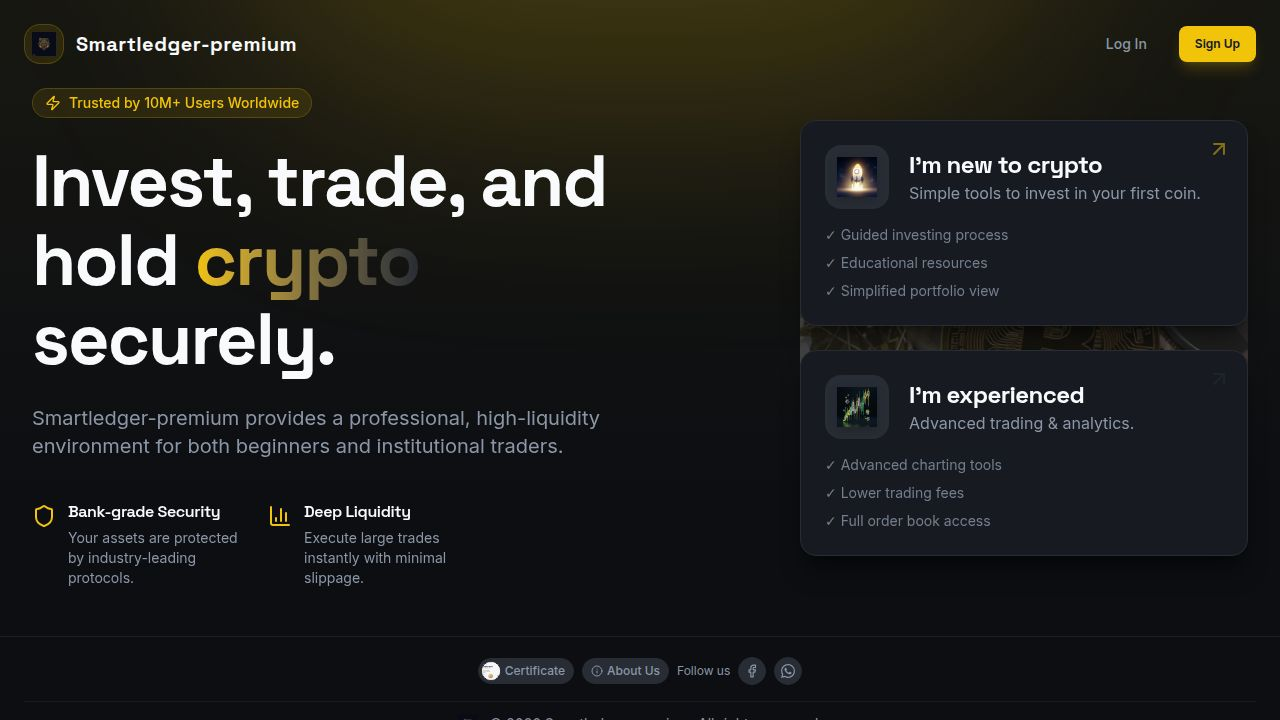
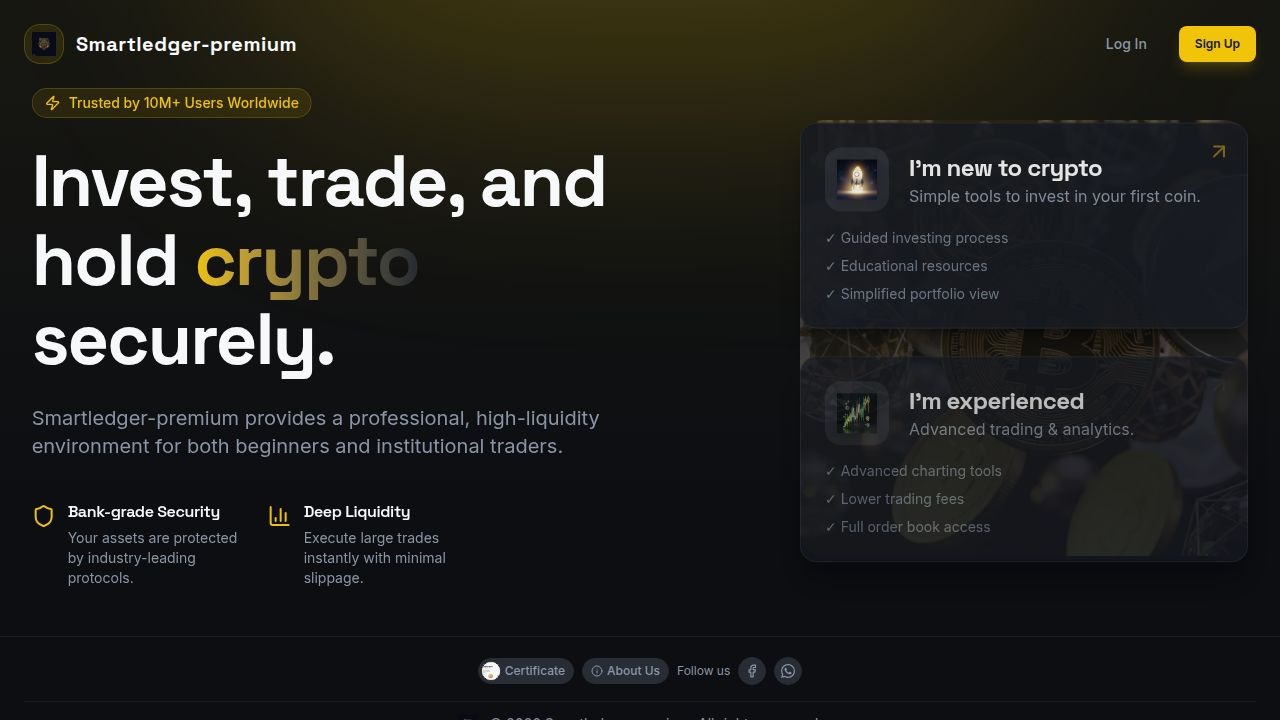
Fix login redirect issue by directly updating user data
Update login and register mutations to use `setQueryData` with user response data, bypassing a race condition that prevented redirects to the dashboard.

Replit-Commit-Author: Agent
Replit-Commit-Session-Id: 590d0fe1-0363-4d51-a39a-ae07ac7a6273
Replit-Commit-Checkpoint-Type: full_checkpoint
Replit-Commit-Event-Id: 2f196fc2-f90f-4a26-ba69-b8612ba4340f
Replit-Commit-Screenshot-Url: https://storage.googleapis.com/screenshot-production-us-central1/5c659de8-04c1-4a56-a7db-ae859f909aab/590d0fe1-0363-4d51-a39a-ae07ac7a6273/d3ZRHUX
Replit-Helium-Checkpoint-Created: true

diff --git a/artifacts/crypto-exchange/src/hooks/use-auth.tsx b/artifacts/crypto-exchange/src/hooks/use-auth.tsx
@@ -1,7 +1,7 @@
 import { createContext, useContext, useEffect } from "react";
 import { useLocation } from "wouter";
 import { useQueryClient } from "@tanstack/react-query";
-import { useGetMe, useLogin, useLogout, useRegister } from "@workspace/api-client-react";
+import { useGetMe, useLogin, useLogout, useRegister, getGetMeQueryKey } from "@workspace/api-client-react";
 import type { User, LoginRequest, RegisterRequest } from "@workspace/api-client-react/src/generated/api.schemas";
 
 type AuthContextType = {
@@ -30,8 +30,8 @@ export function AuthProvider({ children }: { children: React.ReactNode }) {
 
   const loginMutation = useLogin({
     mutation: {
-      onSuccess: () => {
-        queryClient.invalidateQueries({ queryKey: ["/api/auth/me"] });
+      onSuccess: (response) => {
+        queryClient.setQueryData(getGetMeQueryKey(), response.user);
         setLocation("/dashboard");
       }
     }
@@ -39,8 +39,8 @@ export function AuthProvider({ children }: { children: React.ReactNode }) {
 
   const registerMutation = useRegister({
     mutation: {
-      onSuccess: () => {
-        queryClient.invalidateQueries({ queryKey: ["/api/auth/me"] });
+      onSuccess: (response) => {
+        queryClient.setQueryData(getGetMeQueryKey(), response.user);
         setLocation("/dashboard");
       }
     }